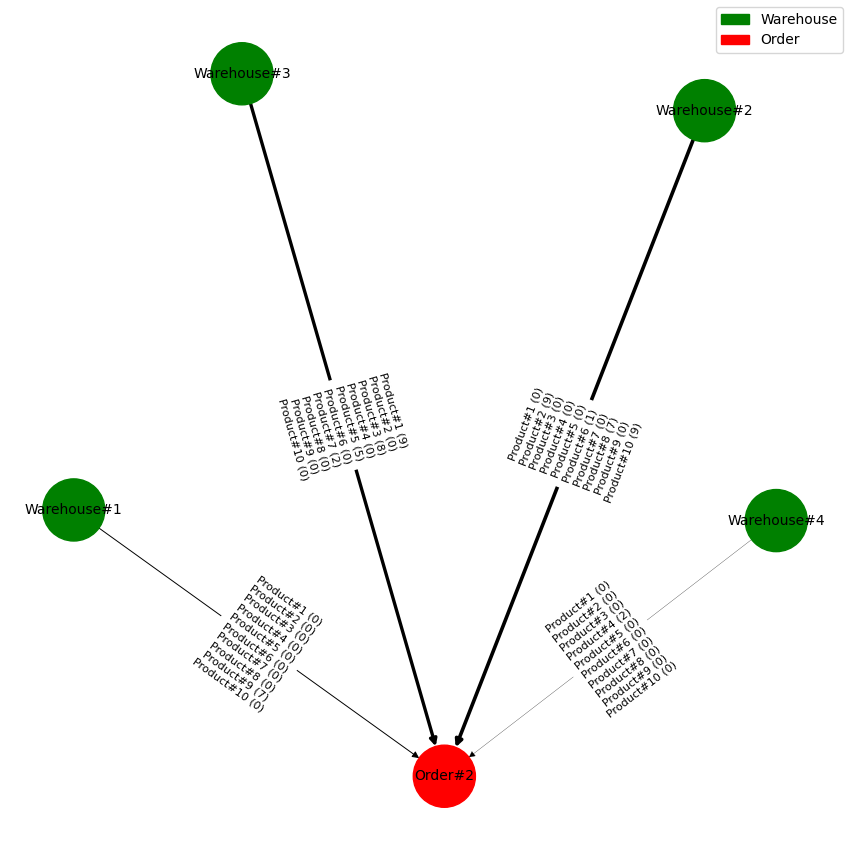
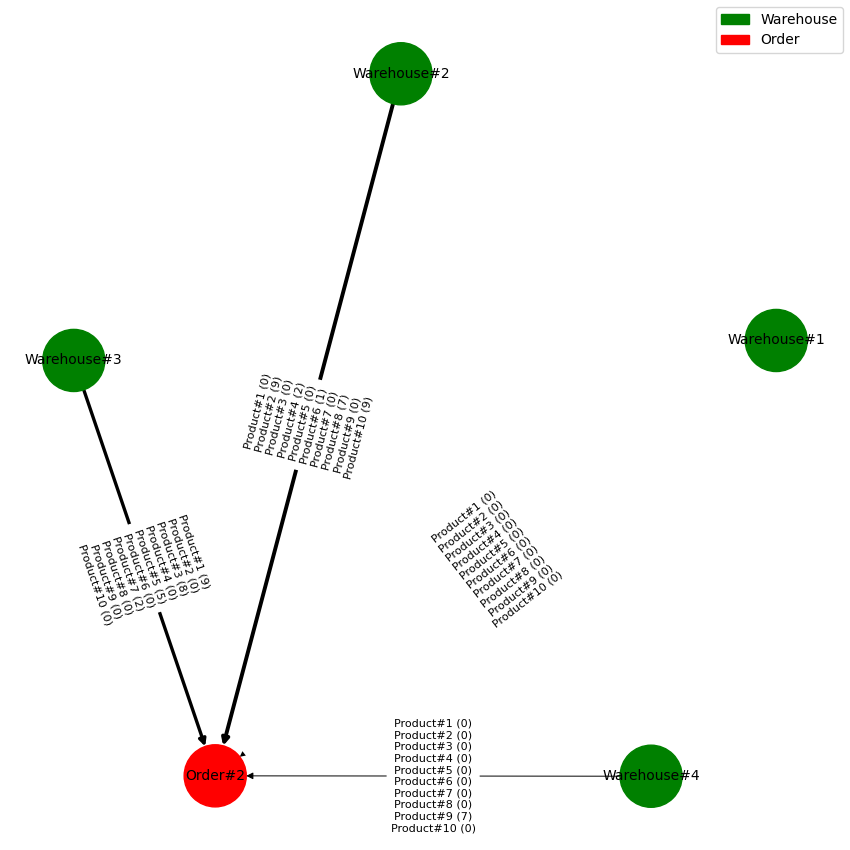
cc

diff --git a/network_diagram.py b/network_diagram.py
@@ -2,12 +2,21 @@ import networkx as nx
 import matplotlib.pyplot as plt
 import matplotlib.patches as mpatches
 from collections import defaultdict
+import os
+import gradio as gr
 from create_optimization_problem import create_sourcing_problem
 from solve_optimization_problem import solve_sourcing_problem
 from read_data import load_excel_data
 
+def create_sourcing_graph(fulfillment_solution, plot_folder="plots"):
 
-def create_sourcing_graph(fulfillment_solution):
+
+    # Delete all files in the 'plots' folder
+    for filename in os.listdir(plot_folder):
+        file_path = os.path.join(plot_folder, filename)
+        if os.path.isfile(file_path):  # Ensure it's a file, not a directory
+            os.remove(file_path)
+    
     # Create a directed graph
     G = nx.DiGraph()
     
@@ -21,7 +30,6 @@ def create_sourcing_graph(fulfillment_solution):
 
     # Group shipments by (warehouse, order) and store product & quantity information
     shipment_info = defaultdict(list)
-    print(fulfillment_solution.columns)
     for _, row in fulfillment_solution.iterrows():
         w = row["Warehouse"]
         o = row["Order"]
@@ -29,63 +37,80 @@ def create_sourcing_graph(fulfillment_solution):
         q = row["Supply Quantity"]
         shipment_info[(w, o)].append(f"{p} ({int(q)})")
     
-    # Add edges and calculate edge properties (width and color)
-    edge_labels = {}
-    edge_widths = []
-    edge_colors = []
-    for (w, o), products in shipment_info.items():
-        label = "\n".join(products)  # Combine product info for the edge label
-        G.add_edge(w, o, label=label)
-        edge_labels[(w, o)] = label
+    # Ensure the plot folder exists
+    if not os.path.exists(plot_folder):
+        os.makedirs(plot_folder)
+
+    # Iterate through each order and generate its graph
+    for o in orders:
+        order_graph = nx.DiGraph()  # Create a new graph for each order
         
-        # Sum quantities for edge width scaling
-        total_qty = sum(int(float(p.split('(')[-1].strip(')'))) for p in products)
-        edge_widths.append(total_qty / 10)  # Scale edge width by total quantity
-        edge_colors.append("black")
-    
-    # Positioning the nodes using spectral layout
-    #pos = nx.spectral_layout(G)
-    #pos = nx.circular_layout(G)
-    pos = nx.spring_layout(G, k=400, scale=100, iterations=200)
+        # Add only the relevant warehouses and the current order node
+        relevant_warehouses = [w for w, ord in shipment_info if ord == o]
+        order_graph.add_nodes_from(relevant_warehouses, color='green')
+        order_graph.add_node(o, color='red')
+        
+        # Add edges and calculate edge properties (width and color)
+        edge_labels = {}
+        edge_widths = []
+        edge_colors = []
+        for (w, ord), products in shipment_info.items():
+            if ord == o:
+                label = "\n".join(products)  # Combine product info for the edge label
+                order_graph.add_edge(w, o, label=label)
+                edge_labels[(w, o)] = label
+                
+                # Sum quantities for edge width scaling
+                total_qty = sum(int(float(p.split('(')[-1].strip(')'))) for p in products)
+                edge_widths.append(total_qty / 10)  # Scale edge width by total quantity
+                edge_colors.append("black")
+        
+        # Positioning the nodes using spring layout
+        pos = nx.spring_layout(order_graph, k=400, scale=100, iterations=200)
+        
+        # Assign node colors based on type (warehouse or order)
+        node_colors = ["green" if node in relevant_warehouses else "red" for node in order_graph.nodes]
+        
+        # Calculate dynamic figure size based on the number of nodes
+        num_nodes = len(order_graph.nodes)
+        side = num_nodes * 1.7
 
-    # Assign node colors based on type (warehouse or order)
-    node_colors = ["green" if node in warehouses else "red" for node in G.nodes]
-    
-    # Calculate dynamic figure size based on the number of nodes
-    num_nodes = len(G.nodes)
-    side = num_nodes * 1.5
+        # Draw the network with labels, node colors, edge widths, and labels
+        plt.figure(figsize=(side, side))
+        nx.draw(order_graph, pos, with_labels=True, node_color=node_colors, edge_color=edge_colors, 
+                node_size=2000, font_size=10, width=edge_widths, arrows=True)
+        nx.draw_networkx_edge_labels(order_graph, pos, edge_labels=edge_labels, font_size=8, label_pos=0.5)
+        
+        # Add a legend for clarity
+        warehouse_patch = mpatches.Patch(color="green", label="Warehouse")
+        order_patch = mpatches.Patch(color="red", label="Order")
+        plt.legend(handles=[warehouse_patch, order_patch], loc="upper right")
+        
+        # Add title and save the plot
+        plt.title(f"Enhanced Sourcing Network Diagram for Order {o}")
+        plt.savefig(f'{plot_folder}/order_{o}.png')
+        plt.close()
 
-    # Draw the network with labels, node colors, edge widths, and labels
-    plt.figure(figsize=(side, side))
-    nx.draw(G, pos, with_labels=True, node_color=node_colors, edge_color=edge_colors, 
-            node_size=2000, font_size=10, width=edge_widths, arrows=True)
-    nx.draw_networkx_edge_labels(G, pos, edge_labels=edge_labels, font_size=8, label_pos=0.5)
-    
-    # Add a legend for clarity
-    warehouse_patch = mpatches.Patch(color="green", label="Warehouse")
-    order_patch = mpatches.Patch(color="red", label="Order")
-    plt.legend(handles=[warehouse_patch, order_patch], loc="upper right")
-    
-    # Add title and show the plot
-    plt.title("Enhanced Sourcing Network Diagram")
-    plt.show()
-    
-    # Save the figure
-    plt.savefig('sourcing_network.png')
-
-
+def display_gallery():
+    # Load all the images in the 'plots' folder for display
+    plot_folder = "plots"
+    image_paths = [os.path.join(plot_folder, f) for f in os.listdir(plot_folder) if f.endswith(".png")]
+    return image_paths
 
 if __name__ == "__main__":
     filepath = 'Intelligent_Sourcing.xlsx'  # Example file path
-    weightage_dict, priority_df, warehouse_df, order_df, cost_df, distance_df, days_df,  = load_excel_data(filepath)
+    weightage_dict, priority_df, warehouse_df, order_df, cost_df, distance_df, days_df = load_excel_data(filepath)
     
     # Create LP Problem
     prob, Warehouses, Products, Stock, Priority, Orders, Quantity, Variable = create_sourcing_problem(weightage_dict, priority_df, warehouse_df, order_df, cost_df, distance_df, days_df)
-    #print(prob.objective)
 
     # Solve LP Problem
     status, fulfillment_solution, warehouse_stock_status = solve_sourcing_problem(prob, Warehouses, Products, Stock, Priority, Orders, Quantity, Variable)
 
     print(fulfillment_solution)
     
+    # Create the graphs for each order
     create_sourcing_graph(fulfillment_solution)
+
+    # Gradio app to display the gallery of saved images
+    gr.Interface(fn=lambda: display_gallery(), inputs=None, outputs=gr.Gallery()).launch()

diff --git a/app.py b/app.py
@@ -4,6 +4,8 @@ from generate_data import generate_intelligent_sourcing_excel
 from read_data import load_excel_data
 from create_optimization_problem import create_sourcing_problem
 from solve_optimization_problem import solve_sourcing_problem
+from network_diagram import create_sourcing_graph, display_gallery
+import os
 
 # Default file name
 default_file = "Intelligent_Sourcing.xlsx"
@@ -117,11 +119,15 @@ def run_optimization():
 
         # Close the Pandas Excel writer and output the Excel file.
         writer.close()
+        create_sourcing_graph(fulfillment_solution)
         return f'Optimization Status: {status}', fulfillment_solution, warehouse_stock_status
     else:
         return f'Solution not found!!!! - status is - {status}', gr.update(visible=False), gr.update(visible=False)
 
-
+def display_gallery():
+    # Get all image files in the 'plots' folder
+    plot_images = [os.path.join("plots", filename) for filename in os.listdir("plots") if filename.endswith(('.png', '.jpg', '.jpeg'))]
+    return plot_images
 
 # Gradio UI
 with gr.Blocks(theme=gr.themes.Soft()) as app:
@@ -146,6 +152,9 @@ with gr.Blocks(theme=gr.themes.Soft()) as app:
                     fulfillment_dataframe = gr.Dataframe(label="Fulfillment Solution")
                 with gr.TabItem("Results: Warehouse Stock Status"):
                     warehouse_stock_dataframe = gr.Dataframe(label="Warehouse Stock Status")
+                with gr.TabItem("Results: Plots"):
+                    create_plots_button = gr.Button("Create Plots")
+                    gallery_output = gr.Gallery()
 
             # Button bindings
             run_optimization_button.click(run_optimization, inputs=[], 
@@ -156,7 +165,7 @@ with gr.Blocks(theme=gr.themes.Soft()) as app:
                                         inputs=[run_weightage_Cost, run_weightage_Priority, 
                                                 run_weightage_distance, run_weightage_days], 
                                         outputs=weightage_message_output)
-
+            create_plots_button.click(fn=display_gallery, inputs=None, outputs=gallery_output)
 
         with gr.TabItem("View/Edit Data"):
             gr.Markdown("""### View/Edit Data\nSelect a sheet to view and edit data.""")
